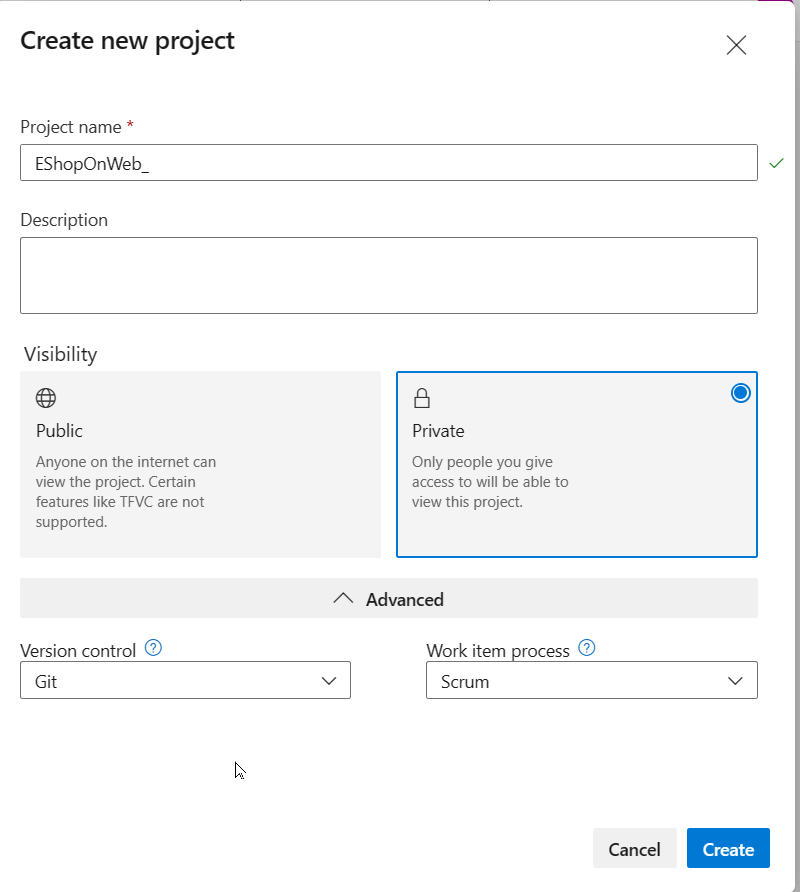
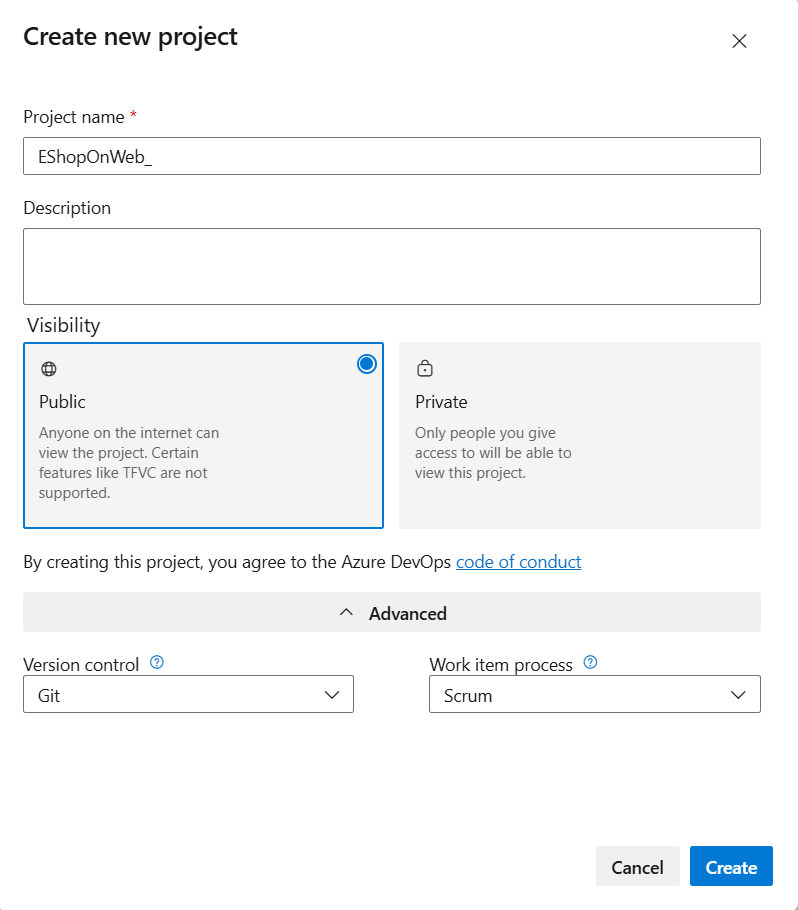
Update eShopOnWeb project visibility setting to 'Public'

diff --git a/Instructions/Labs/AZ400_M00_Validate_lab_environment.md b/Instructions/Labs/AZ400_M00_Validate_lab_environment.md
@@ -82,7 +82,7 @@ First, you'll create an **eShopOnWeb** Azure DevOps project to be used by severa
 1. Select the **New Project** option and use the following settings:
 
    - name: **eShopOnWeb**
-   - visibility: **Private**
+   - visibility: **Public**
    - Advanced: Version Control: **Git**
    - Advanced: Work Item Process: **Scrum**
 
